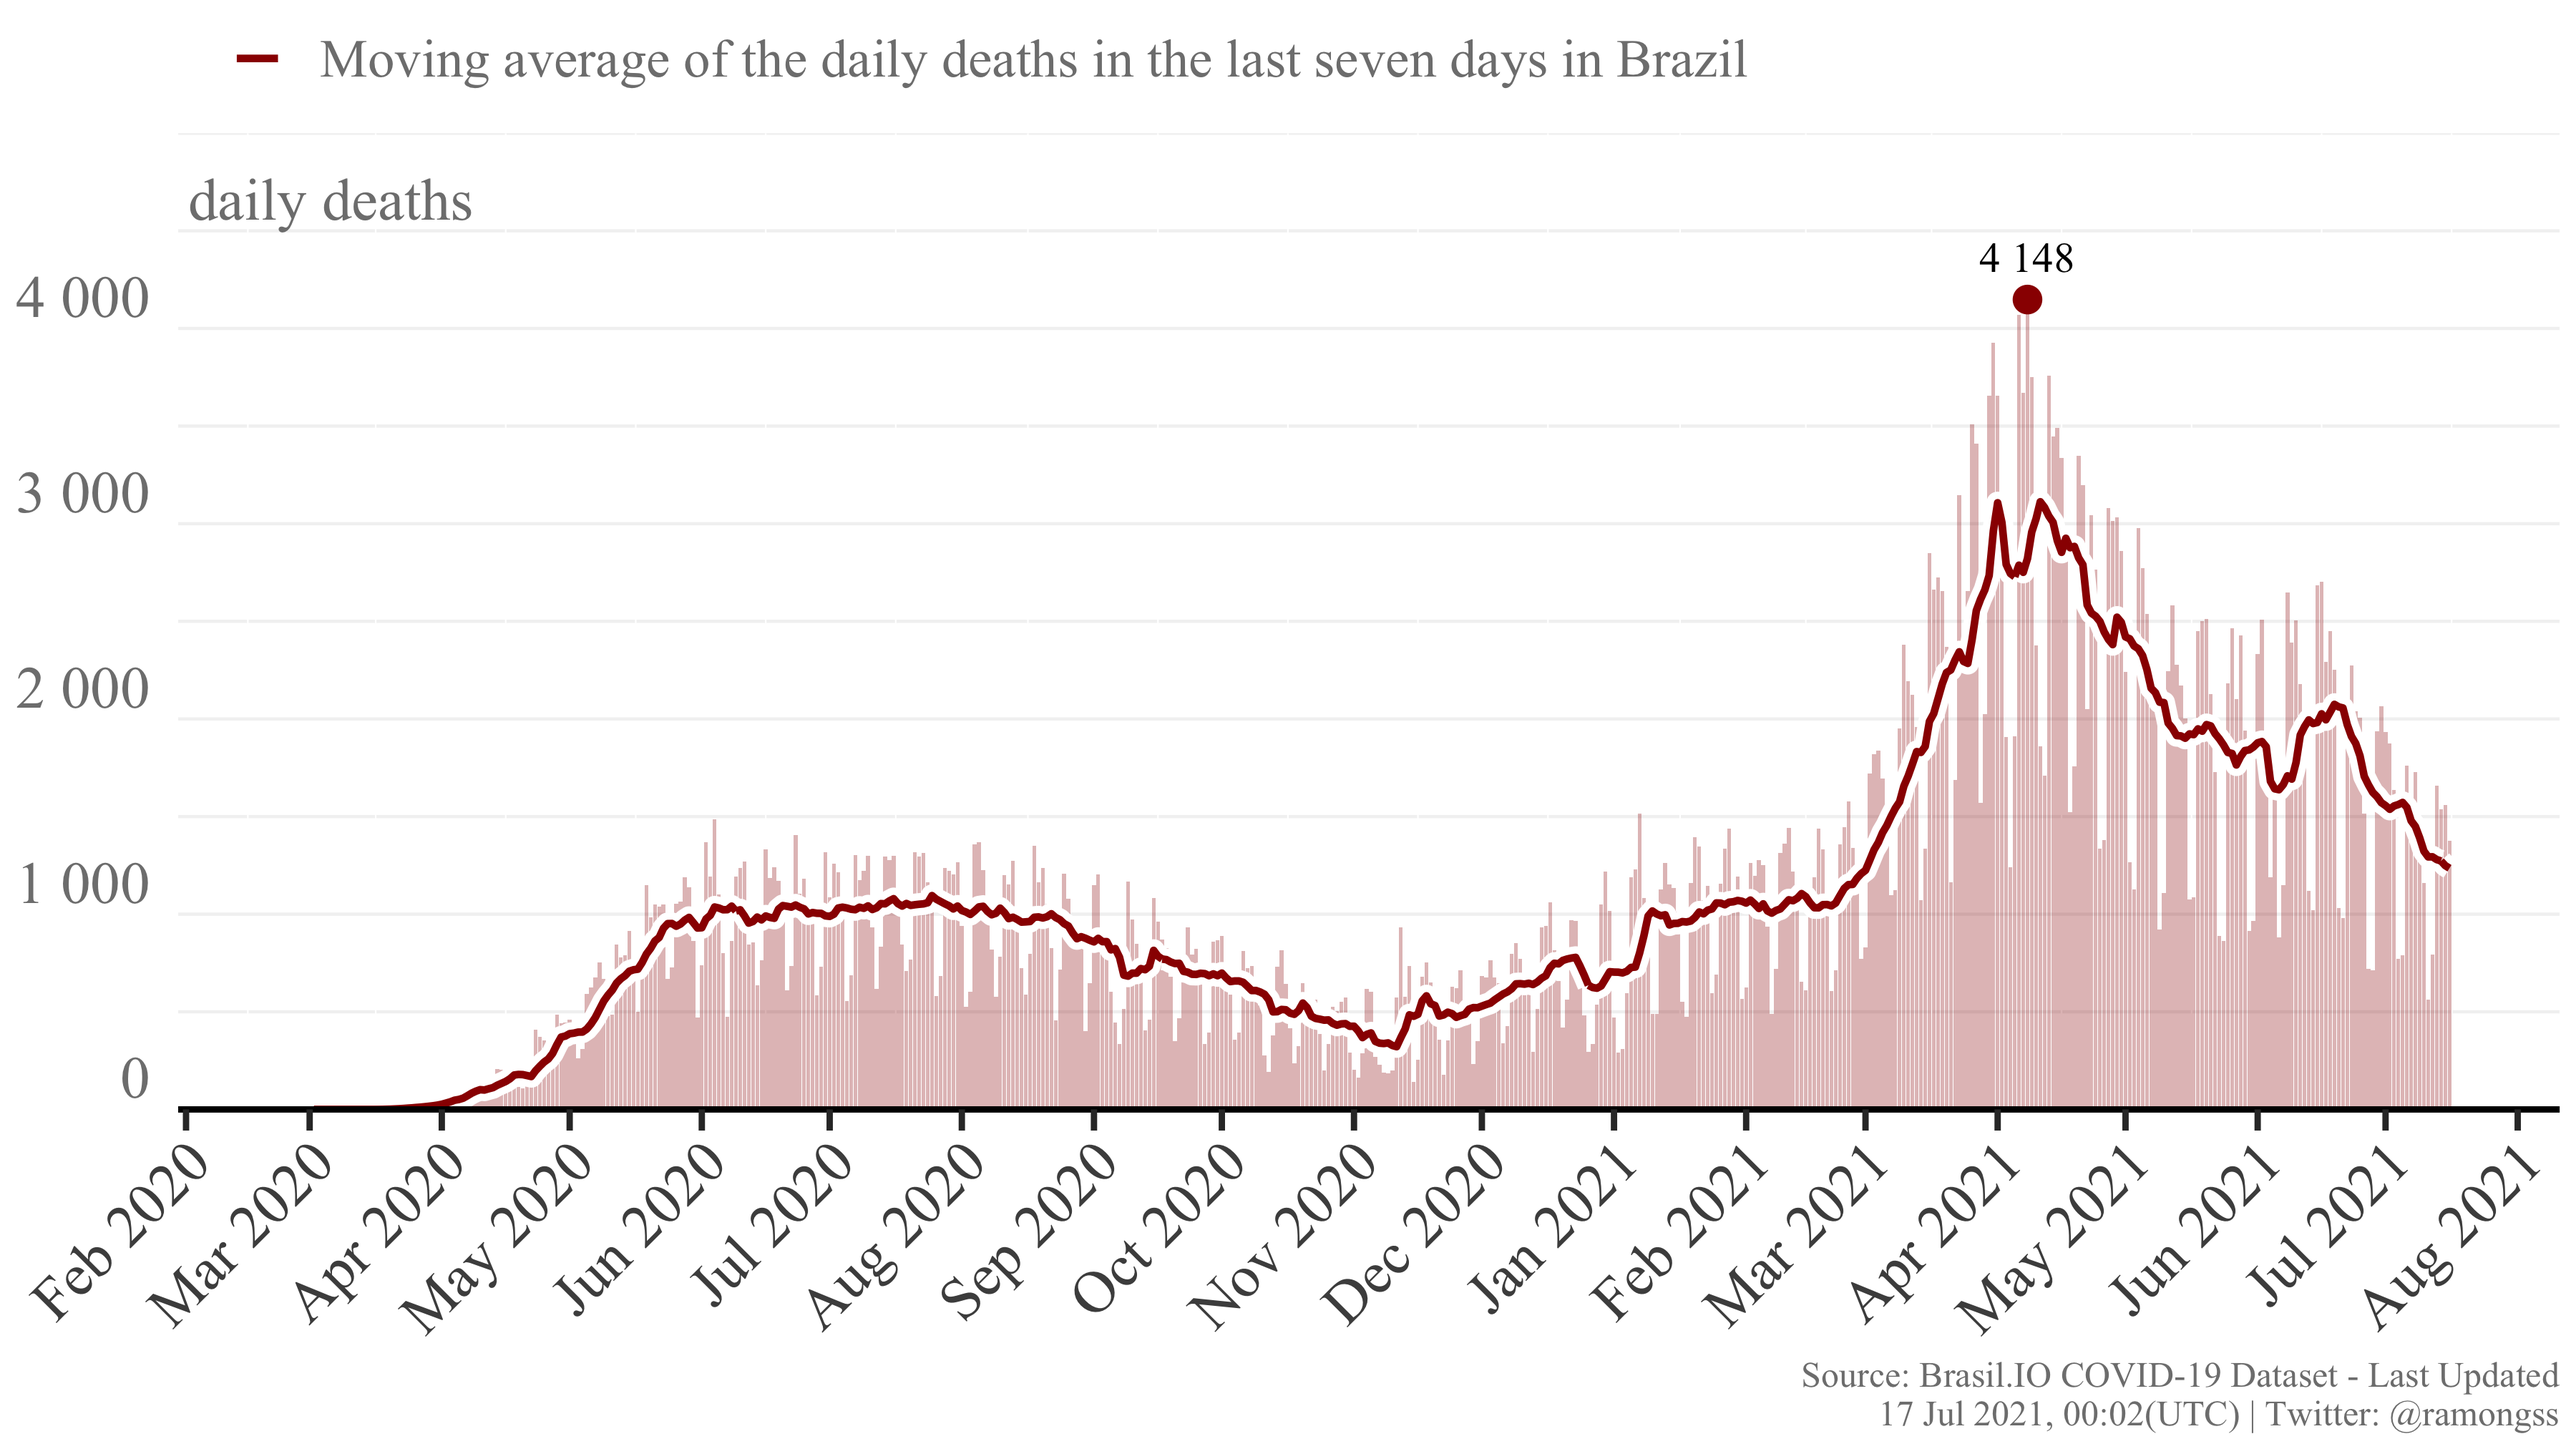
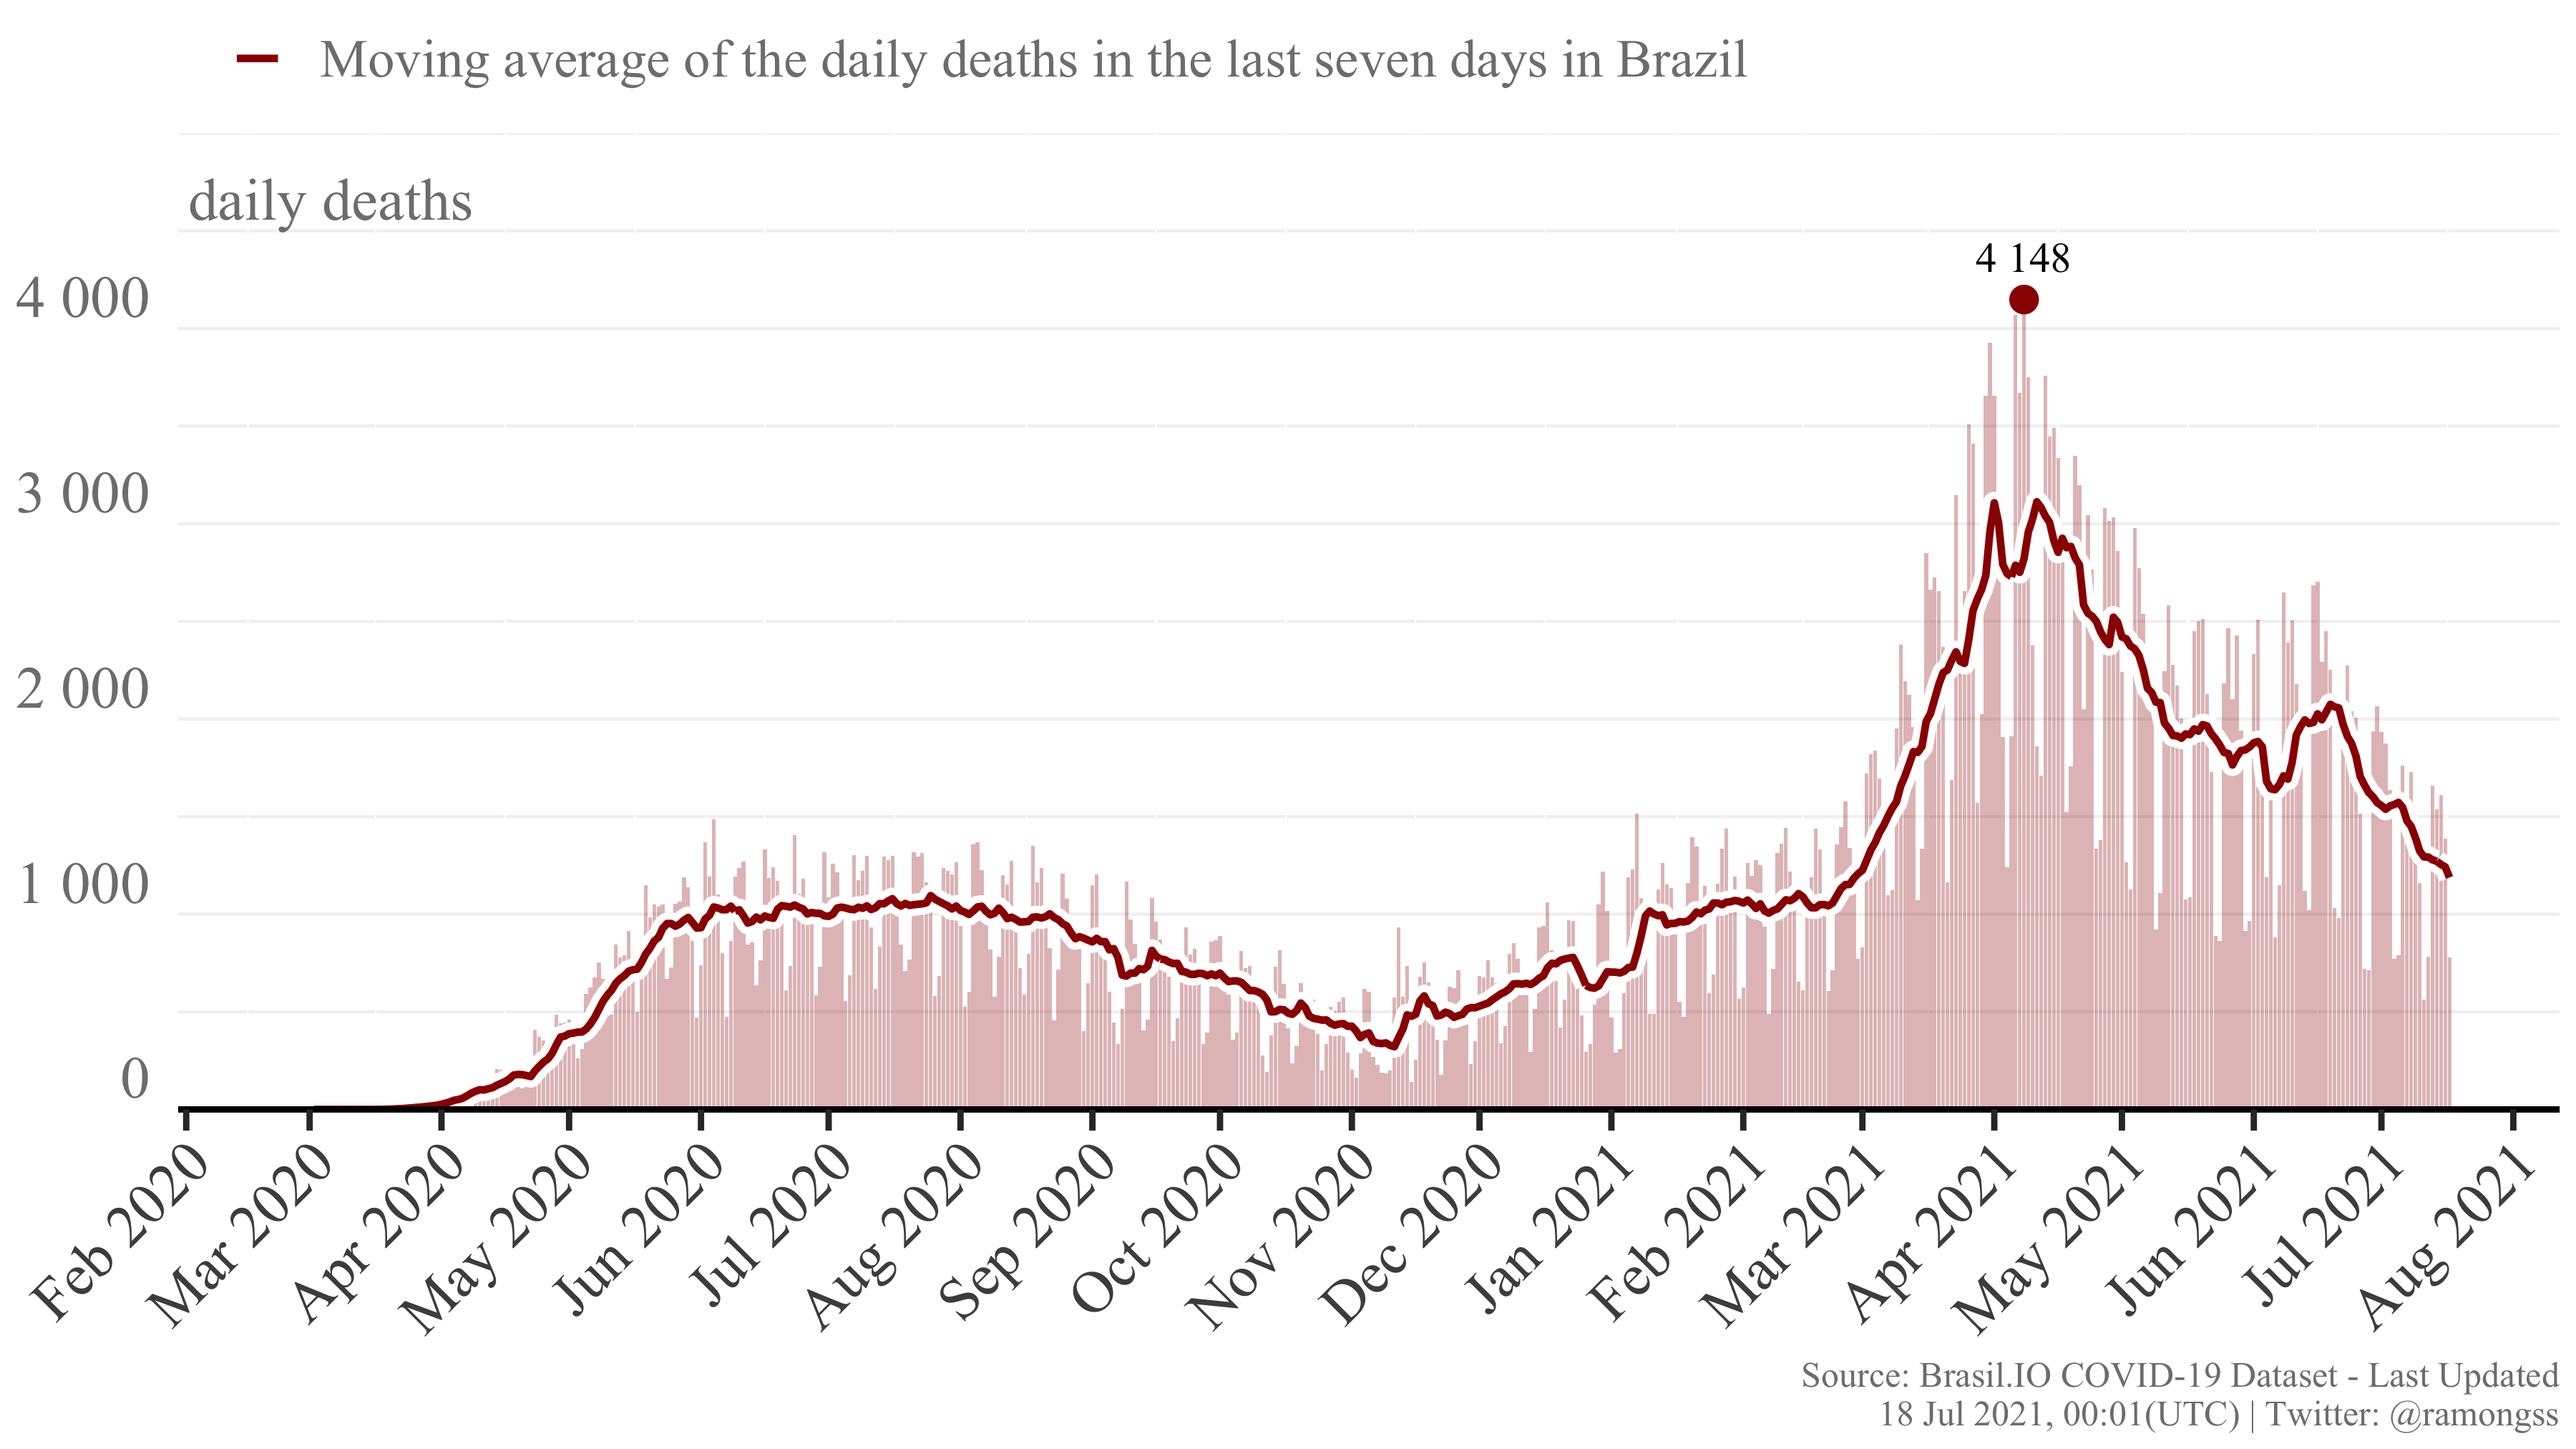
Re-build README.Rmd

diff --git a/README.md b/README.md
@@ -27,8 +27,8 @@ download_brasilio_table <- function(dataset = "covid19", table_name){
 
 ## COVID-19 Confirmed cases
 
-Currently, Brazil has a total of **19,313,112** confirmed cases at **16
-Jul, 2021**, with **42,206** new confirmed cases. The daily maximum
+Currently, Brazil has a total of **19,345,903** confirmed cases at **17
+Jul, 2021**, with **30,850** new confirmed cases. The daily maximum
 incidence was **124,248** confirmed cases at **22 Jun, 2021**. Here
 follows the Figure showing the confirmed case incidence as the bars, and
 the line as the moving average of the last 7 days.
@@ -37,8 +37,8 @@ the line as the moving average of the last 7 days.
 
 ## COVID-19 Deaths
 
-Currently, Brazil has a total of **540,682** deaths at **16 Jul, 2021**,
-with **1,376** new deaths. The daily maximum deaths incidence was
+Currently, Brazil has a total of **541,509** deaths at **17 Jul, 2021**,
+with **777** new deaths. The daily maximum deaths incidence was
 **4,148** deaths at **08 Apr, 2021**. Here follows the Figure showing
 the deaths incidence as the bars, and the line as the moving average of
 the last 7 days.
@@ -49,4 +49,4 @@ the last 7 days.
 
 This page is daily updated automatically using Github Actions.
 
-*Last update: 17 Jul 2021, 00:02 (UTC).*
+*Last update: 18 Jul 2021, 00:01 (UTC).*
